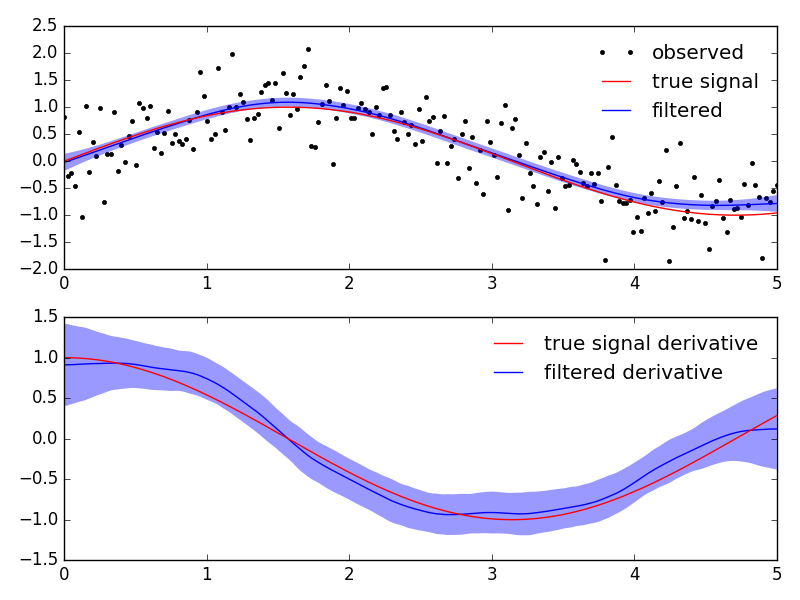
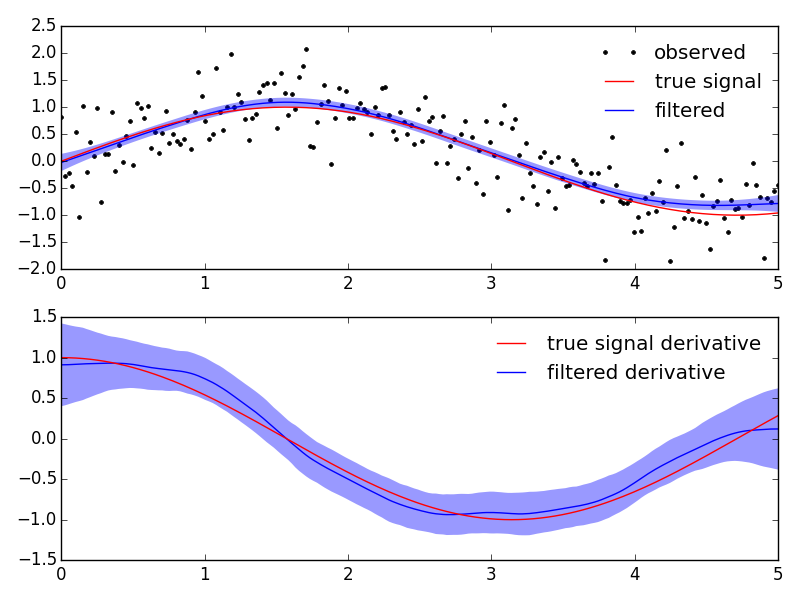
cleaned up some examples

diff --git a/docs/scripts/basis.b.py b/docs/scripts/basis.b.py
@@ -6,30 +6,19 @@ import numpy as np
 import sympy
 import matplotlib.pyplot as plt
 from rbf.basis import RBF,get_R,get_EPS
-from mpl_toolkits.mplot3d import Axes3D
 
-R,EPS = get_R(),get_EPS() 
+R,EPS = get_R(),get_EPS() # get symbolic variables
 expr = sympy.sin(EPS*R)/(EPS*R) # symbolic expression for the RBF
-sinc_rbf = RBF(expr)
-
-# evaluation points
-x,y = np.linspace(-5,5,500),np.linspace(-5,5,500)
-xg,yg = np.meshgrid(x,y)
-xf,yf = xg.ravel(),yg.ravel()
-points = np.array([xf,yf]).T
-
-# RBF centers
-centers = np.array([[0.0,-3.0],[3.0,2.0],[-2.0,1.0]])
-
-# shape parameters, one for each center
-eps = np.array([5.0,5.0,5.0])
-
-# Evaluate the RBFs
-values = sinc_rbf(points,centers,eps=eps)
+sinc_rbf = RBF(expr) # instantiate the RBF
+x = np.linspace(-5,5,500)
+points = np.reshape(np.meshgrid(x,x),(2,500*500)).T # interp points
+centers = np.array([[0.0,-3.0],[3.0,2.0],[-2.0,1.0]]) # RBF centers
+eps = np.array([5.0,5.0,5.0]) # shape parameters
+values = sinc_rbf(points,centers,eps=eps) # Evaluate the RBFs
 
 # plot the sum of each RBF
 fig,ax = plt.subplots()
-p = ax.tripcolor(xf,yf,np.sum(values,axis=1),shading='gouraud',cmap='viridis')
+p = ax.tripcolor(points[:,0],points[:,1],np.sum(values,axis=1),shading='gouraud',cmap='viridis')
 plt.colorbar(p,ax=ax)
 ax.set_xlim((-5,5))
 ax.set_ylim((-5,5))

diff --git a/docs/scripts/filter.b.py b/docs/scripts/filter.b.py
@@ -8,29 +8,17 @@ from rbf.filter import filter
 np.random.seed(1)
 
 t = np.linspace(0.0,5.0,200)
-# true signal
-u_true = np.sin(t)
-udiff_true = np.cos(t)
-
-# observed signal
+u_true,udiff_true = np.sin(t),np.cos(t) # true signal
 sigma_obs = 0.5*np.ones(t.shape)
-u_obs = u_true + np.random.normal(0.0,sigma_obs)
-
-# cutoff frequency
-cutoff = 0.5
-# stencil size
-size = 3
-# number of samples to estimate uncertainty
-samples = 1000
-
+u_obs = u_true + np.random.normal(0.0,sigma_obs) # observed
 # find the filtered solution
 u_pred,sigma_pred = filter(t[:,None],u_obs,sigma_obs,
-                           samples=samples,size=size,
-                           cutoff=cutoff)
+                           samples=1000,size=3,
+                           cutoff=0.5)
 # find the derivative of the filtered solution
 udiff_pred,sigmadiff_pred = filter(t[:,None],u_obs,sigma_obs,
-                                   samples=samples,size=size,
-                                   cutoff=cutoff,diffs=(1,))
+                                   samples=1000,size=3,
+                                   cutoff=0.5,diffs=(1,))
 
 # plot the results
 fig,ax = plt.subplots(2,1)

diff --git a/docs/scripts/interpolate.a.py b/docs/scripts/interpolate.a.py
@@ -8,18 +8,15 @@ from rbf.interpolate import RBFInterpolant
 import matplotlib.pyplot as plt
 np.random.seed(1)
 
-# create noisy data
 x_obs = np.random.random((100,2)) # observation points
-u_obs = np.sin(2*np.pi*x_obs[:,0])*np.cos(2*np.pi*x_obs[:,1])
-u_obs += np.random.normal(0.0,0.2,100)
+u_obs = np.sin(2*np.pi*x_obs[:,0])*np.cos(2*np.pi*x_obs[:,1]) # signal
+u_obs += np.random.normal(0.0,0.2,100) # add noise to signal
+I = RBFInterpolant(x_obs,u_obs,penalty=0.001) # instantiate Interpolant
+vals = np.linspace(0,1,200)
+x_itp = np.reshape(np.meshgrid(vals,vals),(2,200*200)).T # interp points
+u_itp = I(x_itp) # evaluate the interpolant
 
-# create smoothed interpolant
-I = RBFInterpolant(x_obs,u_obs,penalty=0.001)
-
-# create interpolation points
-x_itp = np.random.random((10000,2))
-u_itp = I(x_itp)
-
+# plot the results
 plt.tripcolor(x_itp[:,0],x_itp[:,1],u_itp,vmin=-1.1,vmax=1.1,cmap='viridis')
 plt.scatter(x_obs[:,0],x_obs[:,1],s=100,c=u_obs,vmin=-1.1,vmax=1.1,cmap='viridis')
 plt.xlim((0.05,0.95))

diff --git a/docs/scripts/filter.c.py b/docs/scripts/filter.c.py
@@ -26,8 +26,8 @@ u_obs = signal(pnts_obs) + np.random.normal(0.0,0.1,N)
 sigma_obs = 0.1*np.ones(N)
 
 # create the interpolation points
-pnts_itp = np.meshgrid(np.linspace(-4,4,100),np.linspace(-4,4,100))
-pnts_itp = np.reshape(pnts_itp,(2,100*100)).T
+vals = np.linspace(-4,4,100) 
+pnts_itp = np.reshape(np.meshgrid(vals,vals),(2,10000)).T
 
 # rbf.filter.filter can be used for interpolation by treating the 
 # interpolation points as observation points with infinite 
@@ -68,6 +68,6 @@ axs[1].set_ylim((-4,4))
 axs[1].set_title('True Signal')
 axs[1].set_aspect('equal')
 plt.colorbar(p,ax=axs[1])
-plt.savefig('../figures/filter.c.png')
+#plt.savefig('../figures/filter.c.png')
 plt.tight_layout()
 plt.show()

diff --git a/docs/scripts/filter.a.py b/docs/scripts/filter.a.py
@@ -22,11 +22,8 @@ values /= 255.0 # normalize so that the max is 1.0
 signal = NearestNDInterpolator(points,values)
 
 # interpolate Lena onto new observation points and add noise
-N = 100000
-points_obs = np.random.normal(0.5,0.25,(N,2))
-u_obs = signal(points_obs)
-u_obs += np.random.normal(0.0,0.5,N)
-
+points_obs = np.random.normal(0.5,0.25,(100000,2))
+u_obs = signal(points_obs) + np.random.normal(0.0,0.5,100000)
 # find filtered solution
 soln,sigma = filter(points_obs,u_obs,cutoff=40,size=20)
 
